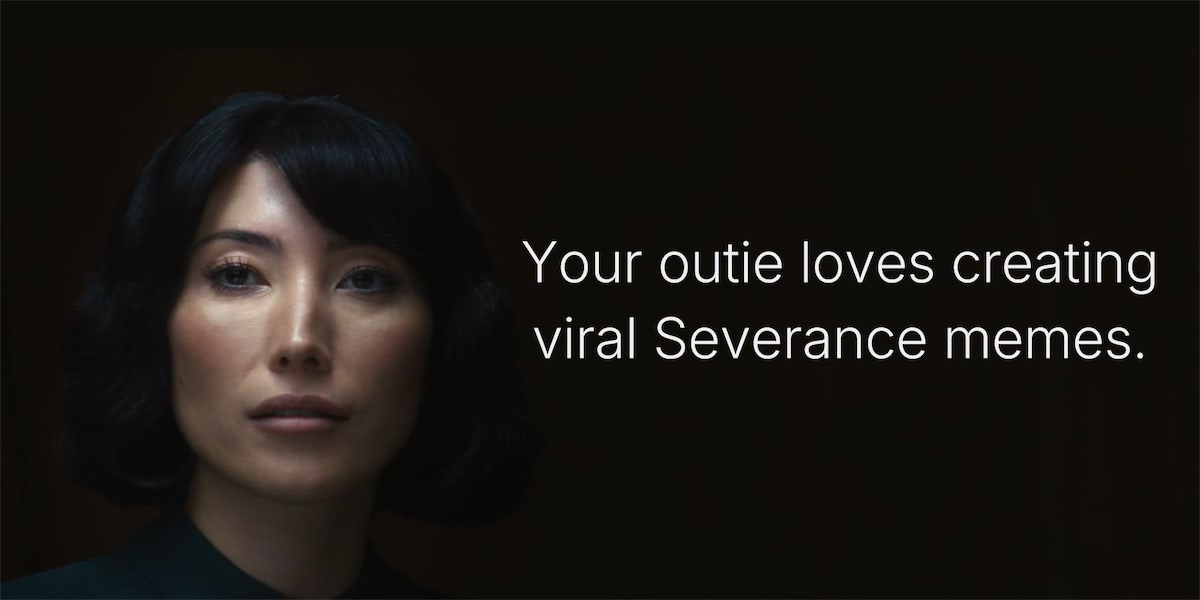
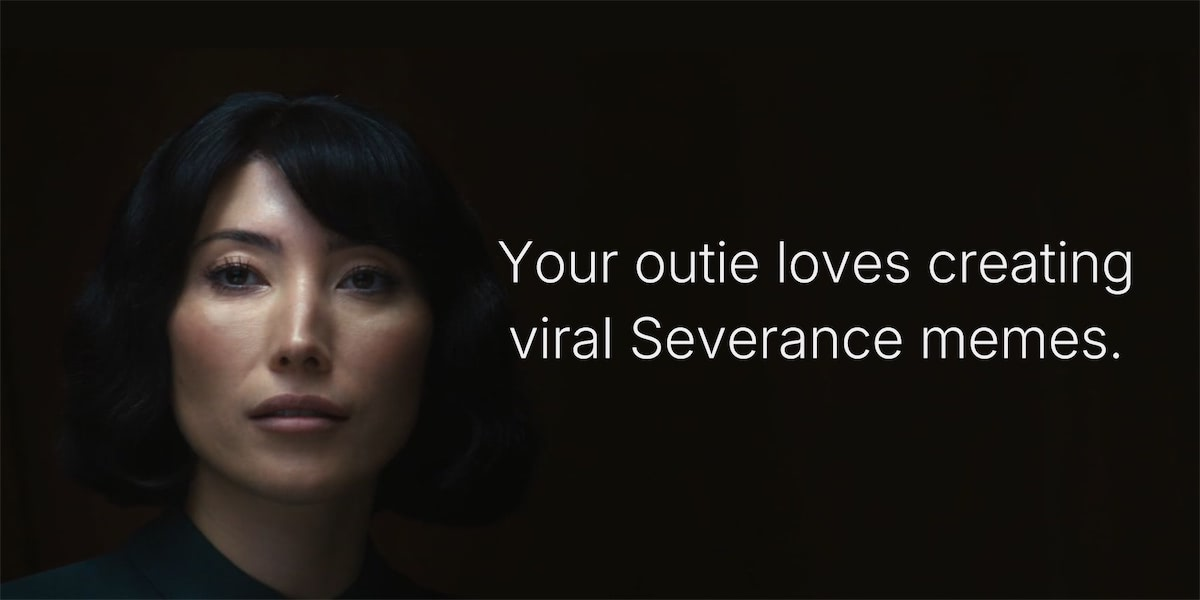
🏖

Changed region(s): [[0.4008, 0.39, 0.9867, 0.51], [0.4008, 0.51, 0.9558, 0.6]]

diff --git a/src/lib/generate-wellness-fact-image-response.tsx b/src/lib/generate-wellness-fact-image-response.tsx
@@ -38,8 +38,8 @@ export async function generateWellnessFactImageResponse({
           style={{
             position: 'absolute',
             top: '0',
-            left: '40%',
-            right: '0',
+            left: '38%',
+            right: '2%',
             bottom: '0',
             padding: '2% 4%',
             display: 'flex',
@@ -51,16 +51,15 @@ export async function generateWellnessFactImageResponse({
           <div
             style={{
               fontFamily: 'Inter',
-              fontSize: '86px',
+              fontSize: '96px',
               lineHeight: '1.35',
               color: '#eee',
               textAlign: 'center',
               textWrap: 'balance'
             }}
           >
-            {wellnessFact?.text?.replaceAll('@', '') ||
-              'The work is mysterious and important.'}
-            {/* {'Your outie loves creating viral Severance memes.'} */}
+            {/* {wellnessFact?.text?.replaceAll('@', '') || 'The work is mysterious and important.'} */}
+            {'Your outie loves creating viral Severance memes.'}
           </div>
         </div>
       </div>
